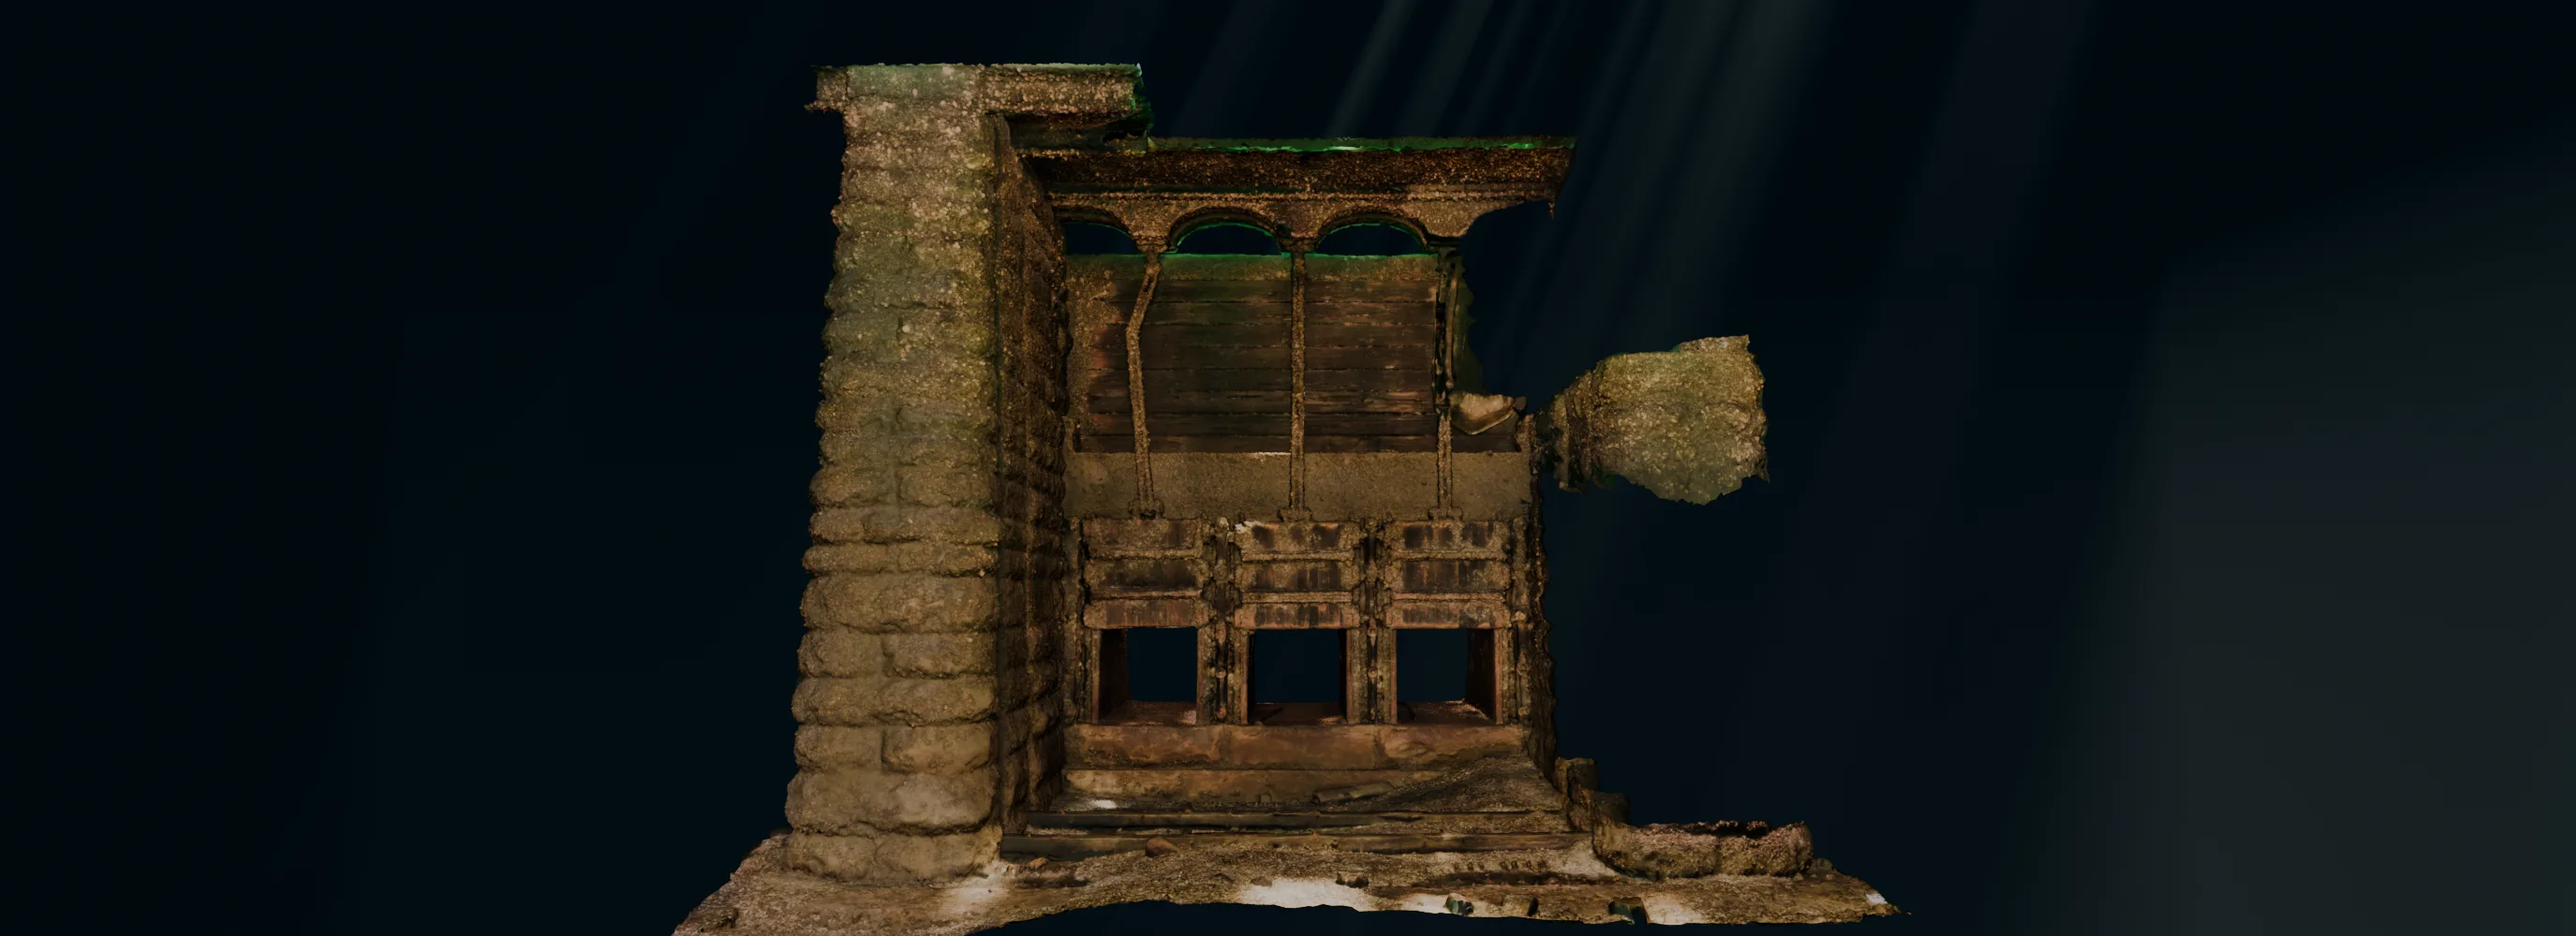
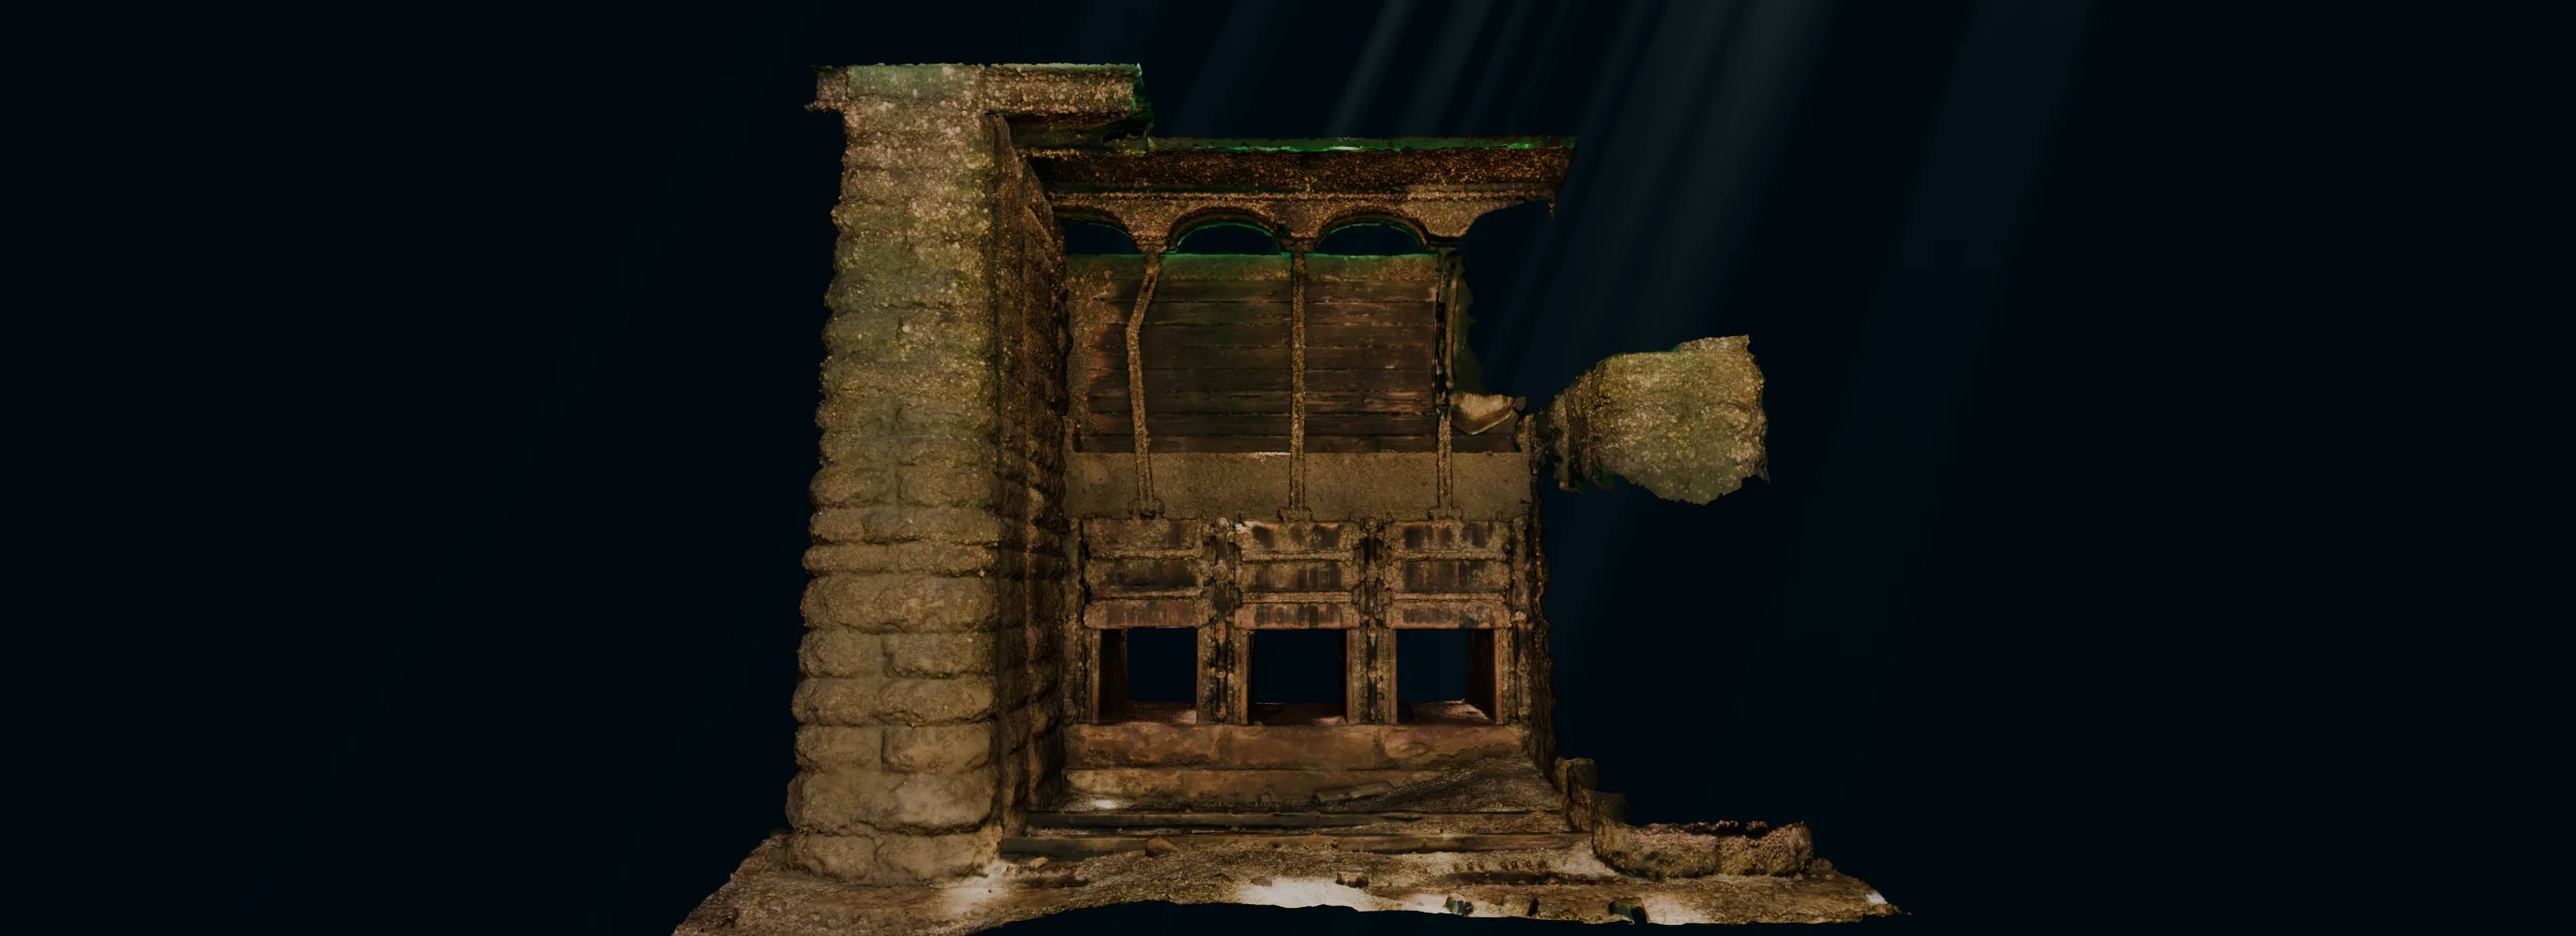
Home page render: no light patch at the bottom right

diff --git a/CHANGELOG.md b/CHANGELOG.md
@@ -2,6 +2,11 @@
 
 Versions follow [semantic versioning](https://semver.org/) (major.minor.patch), below 1.0.0 while the site is not public.
 
+## Unreleased
+
+- Home page render: no more light patch at the bottom right (slanted sunlight slipped past the surface's edge into
+  the water volume).
+
 ## 0.6.0 - 2026-10-21
 
 - Translation tracking: `npm run i18n:status` (`tools/i18n/status.mjs`) lists the English pages to create, update or
